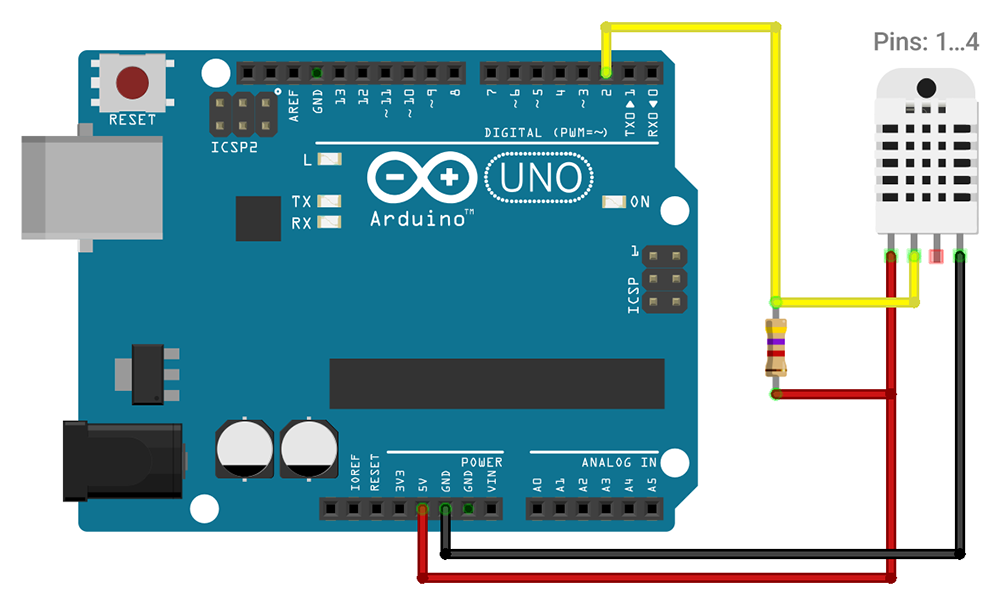
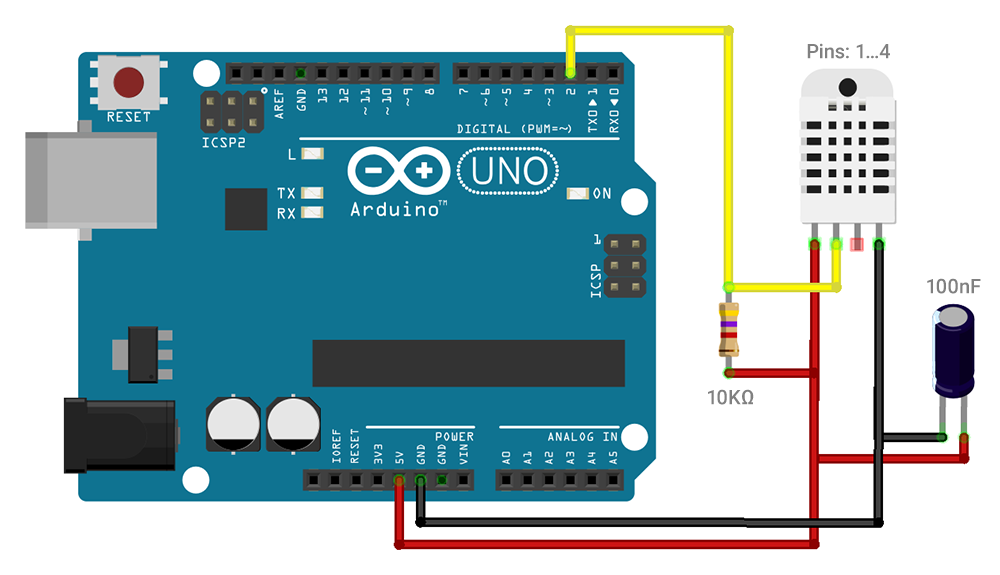
Review DHT-22 doc.

Changed region(s): [[0.0, 0.0296, 0.992, 0.9757], [0.031, 0.3843, 0.155, 0.4139]]

diff --git a/sensors/dht22/README.md b/sensors/dht22/README.md
@@ -10,6 +10,22 @@ These sensors are very basic and slow, but are great for hobbyists who want to d
 - Humidity (in percent)
 
 
+## Schematics
+
+![DHT-22 Schema](assets/dht22-schema.png)
+
+
+### Parts
+
+- A **10KΩ resistor** _can be_ placed between VCC and data pin to act as a medium-strength pull up on the data line. The Arduino has built in pullups you can turn on but they're very weak, about 20-50K. DHT-22 often have a pullup already inside, but it doesn't hurt to add another one!
+- A **100nF capacitor** _can be_ added between VCC and ground for wave filtering.
+
+
+## Libraries
+
+- [Adafruit's DHT sensor library](https://github.com/adafruit/DHT-sensor-library)
+
+
 ## Specifications
 
 - Power supply: 3.3–6V DC
@@ -44,24 +60,6 @@ It has four pins (from left to right):
 2. Data out (white or yellow wire) – Connect to a digital pin.
 3. _Not connected_
 4. Ground (black wire)
-
-
-## Schematics
-
-![DHT-22 Schema](assets/dht22-schema.png)
-
-
-## Related Information
-
-### Libraries
-
-- [Adafruit's DHT sensor library](https://github.com/adafruit/DHT-sensor-library)
-
-
-### Parts
-
-- A **10KΩ resistor** can be placed between VCC and data pin to act as a medium-strength pull up on the data line. The Arduino has built in pullups you can turn on but they're very weak, about 20-50K. DHT-22 often have a pullup already inside, but it doesn't hurt to add another one!
-- A **100nF capacitor** can be added between VCC and ground for wave filtering.
 
 
 ## Tutorials
